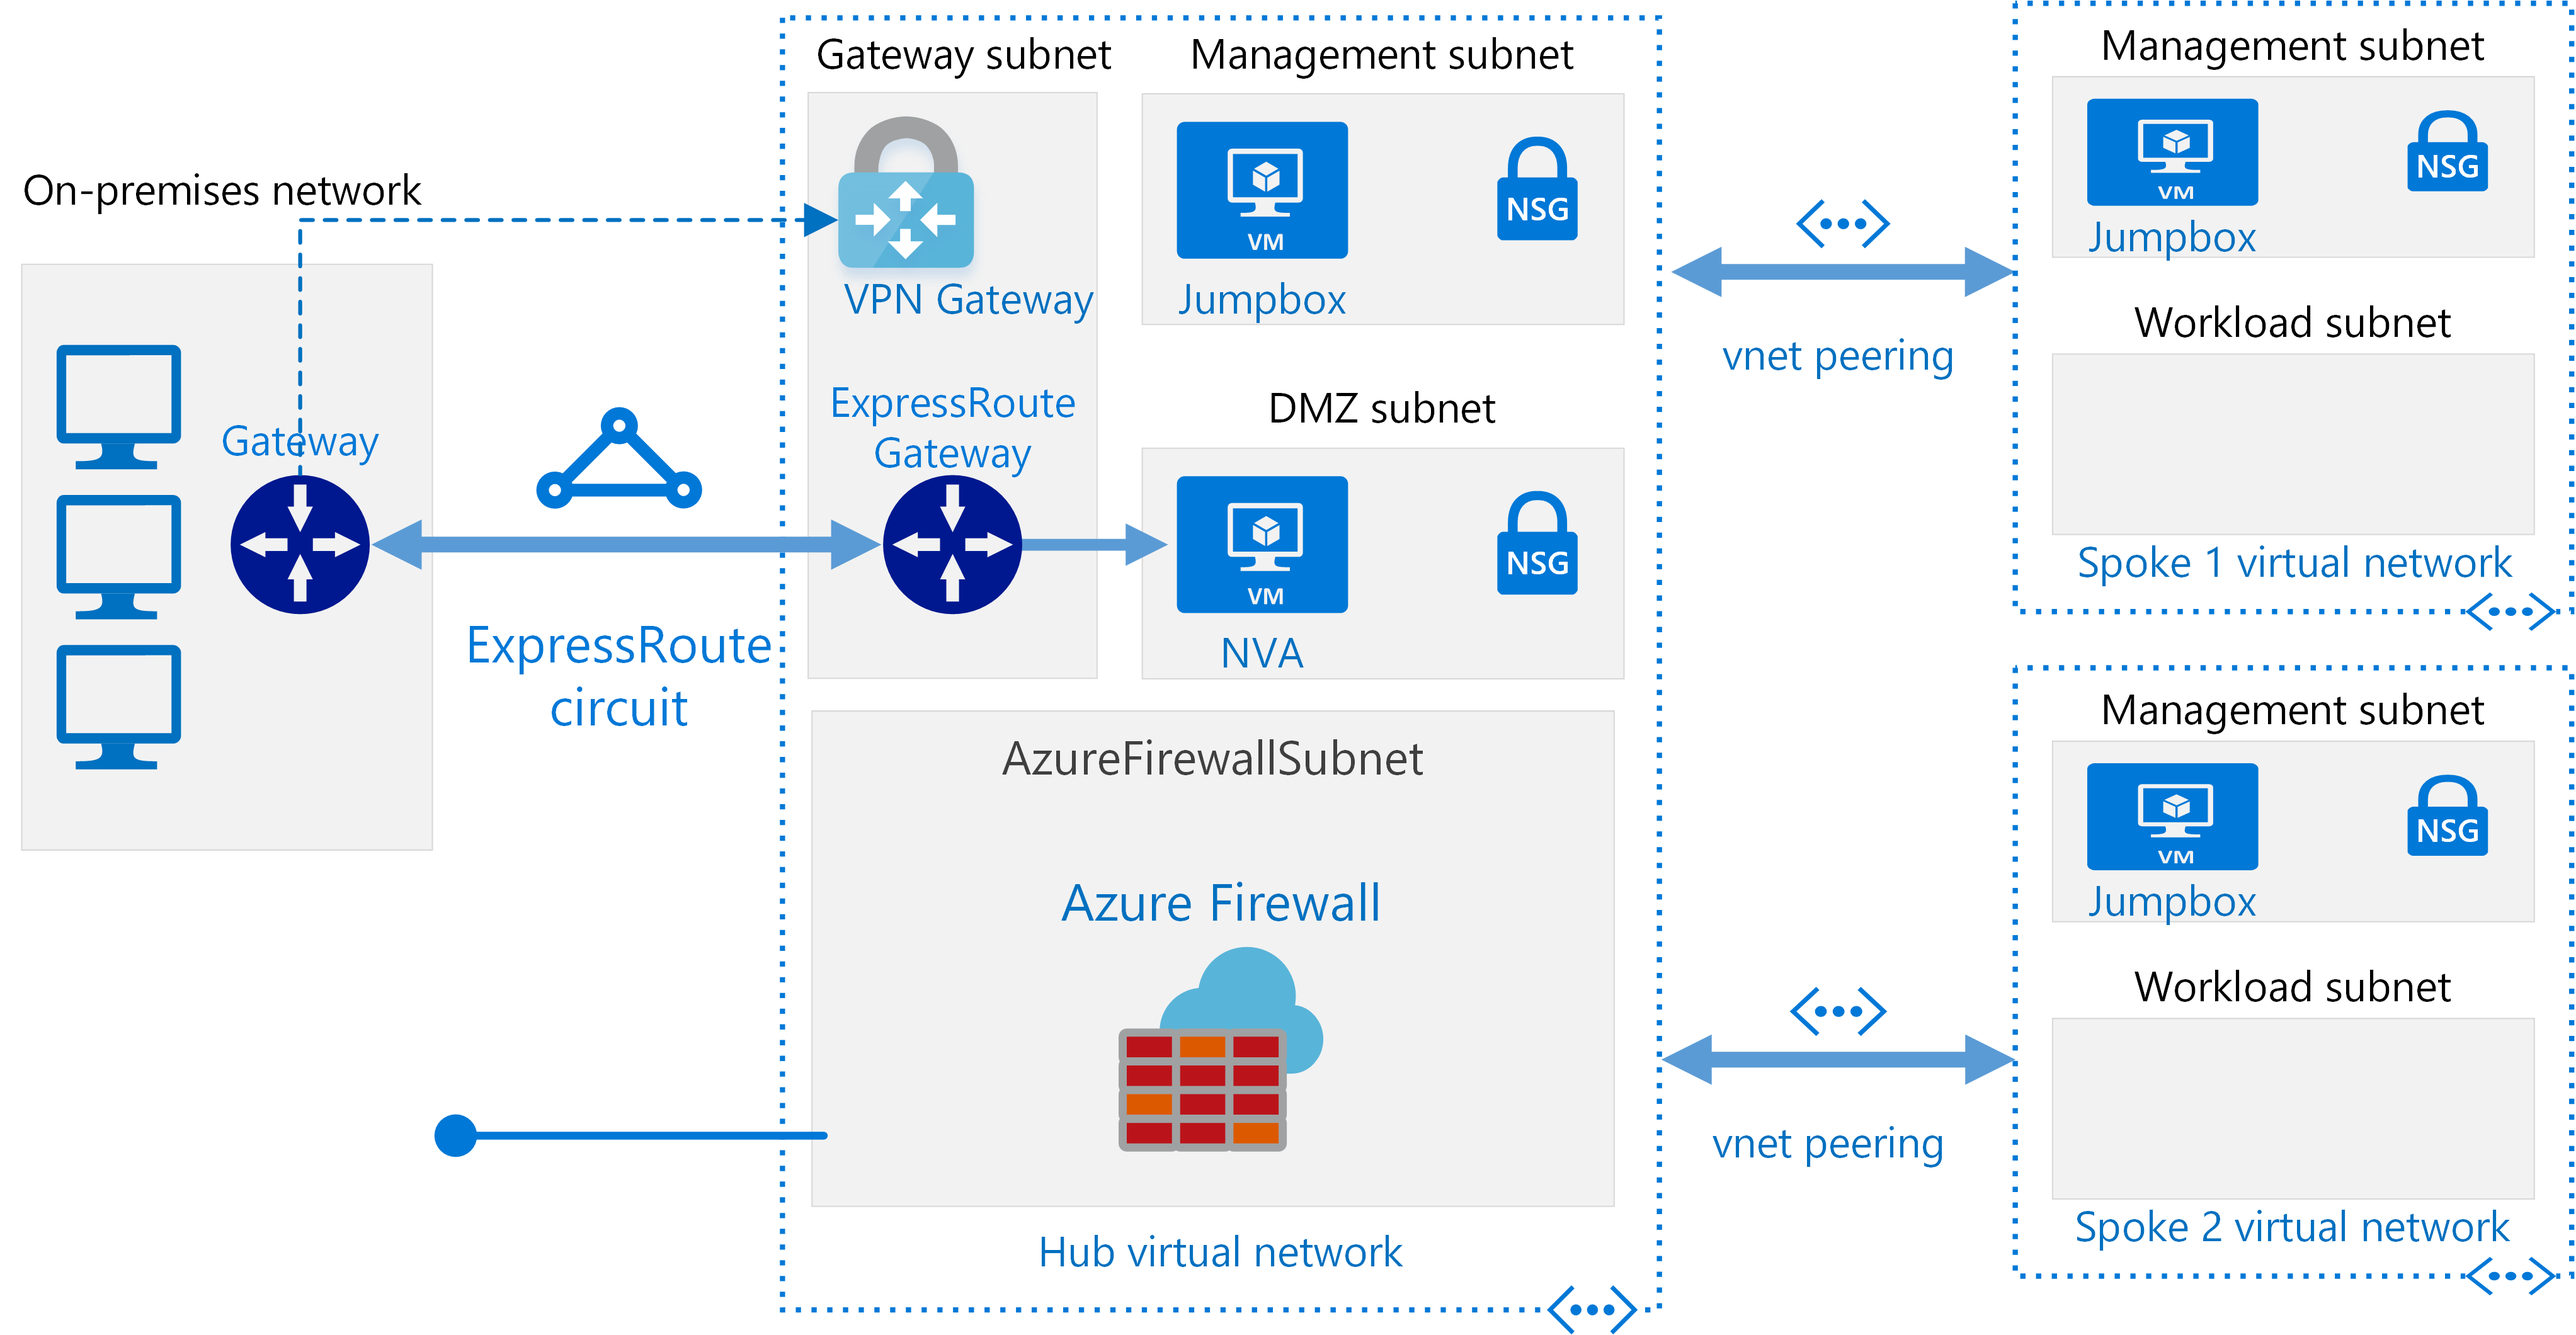
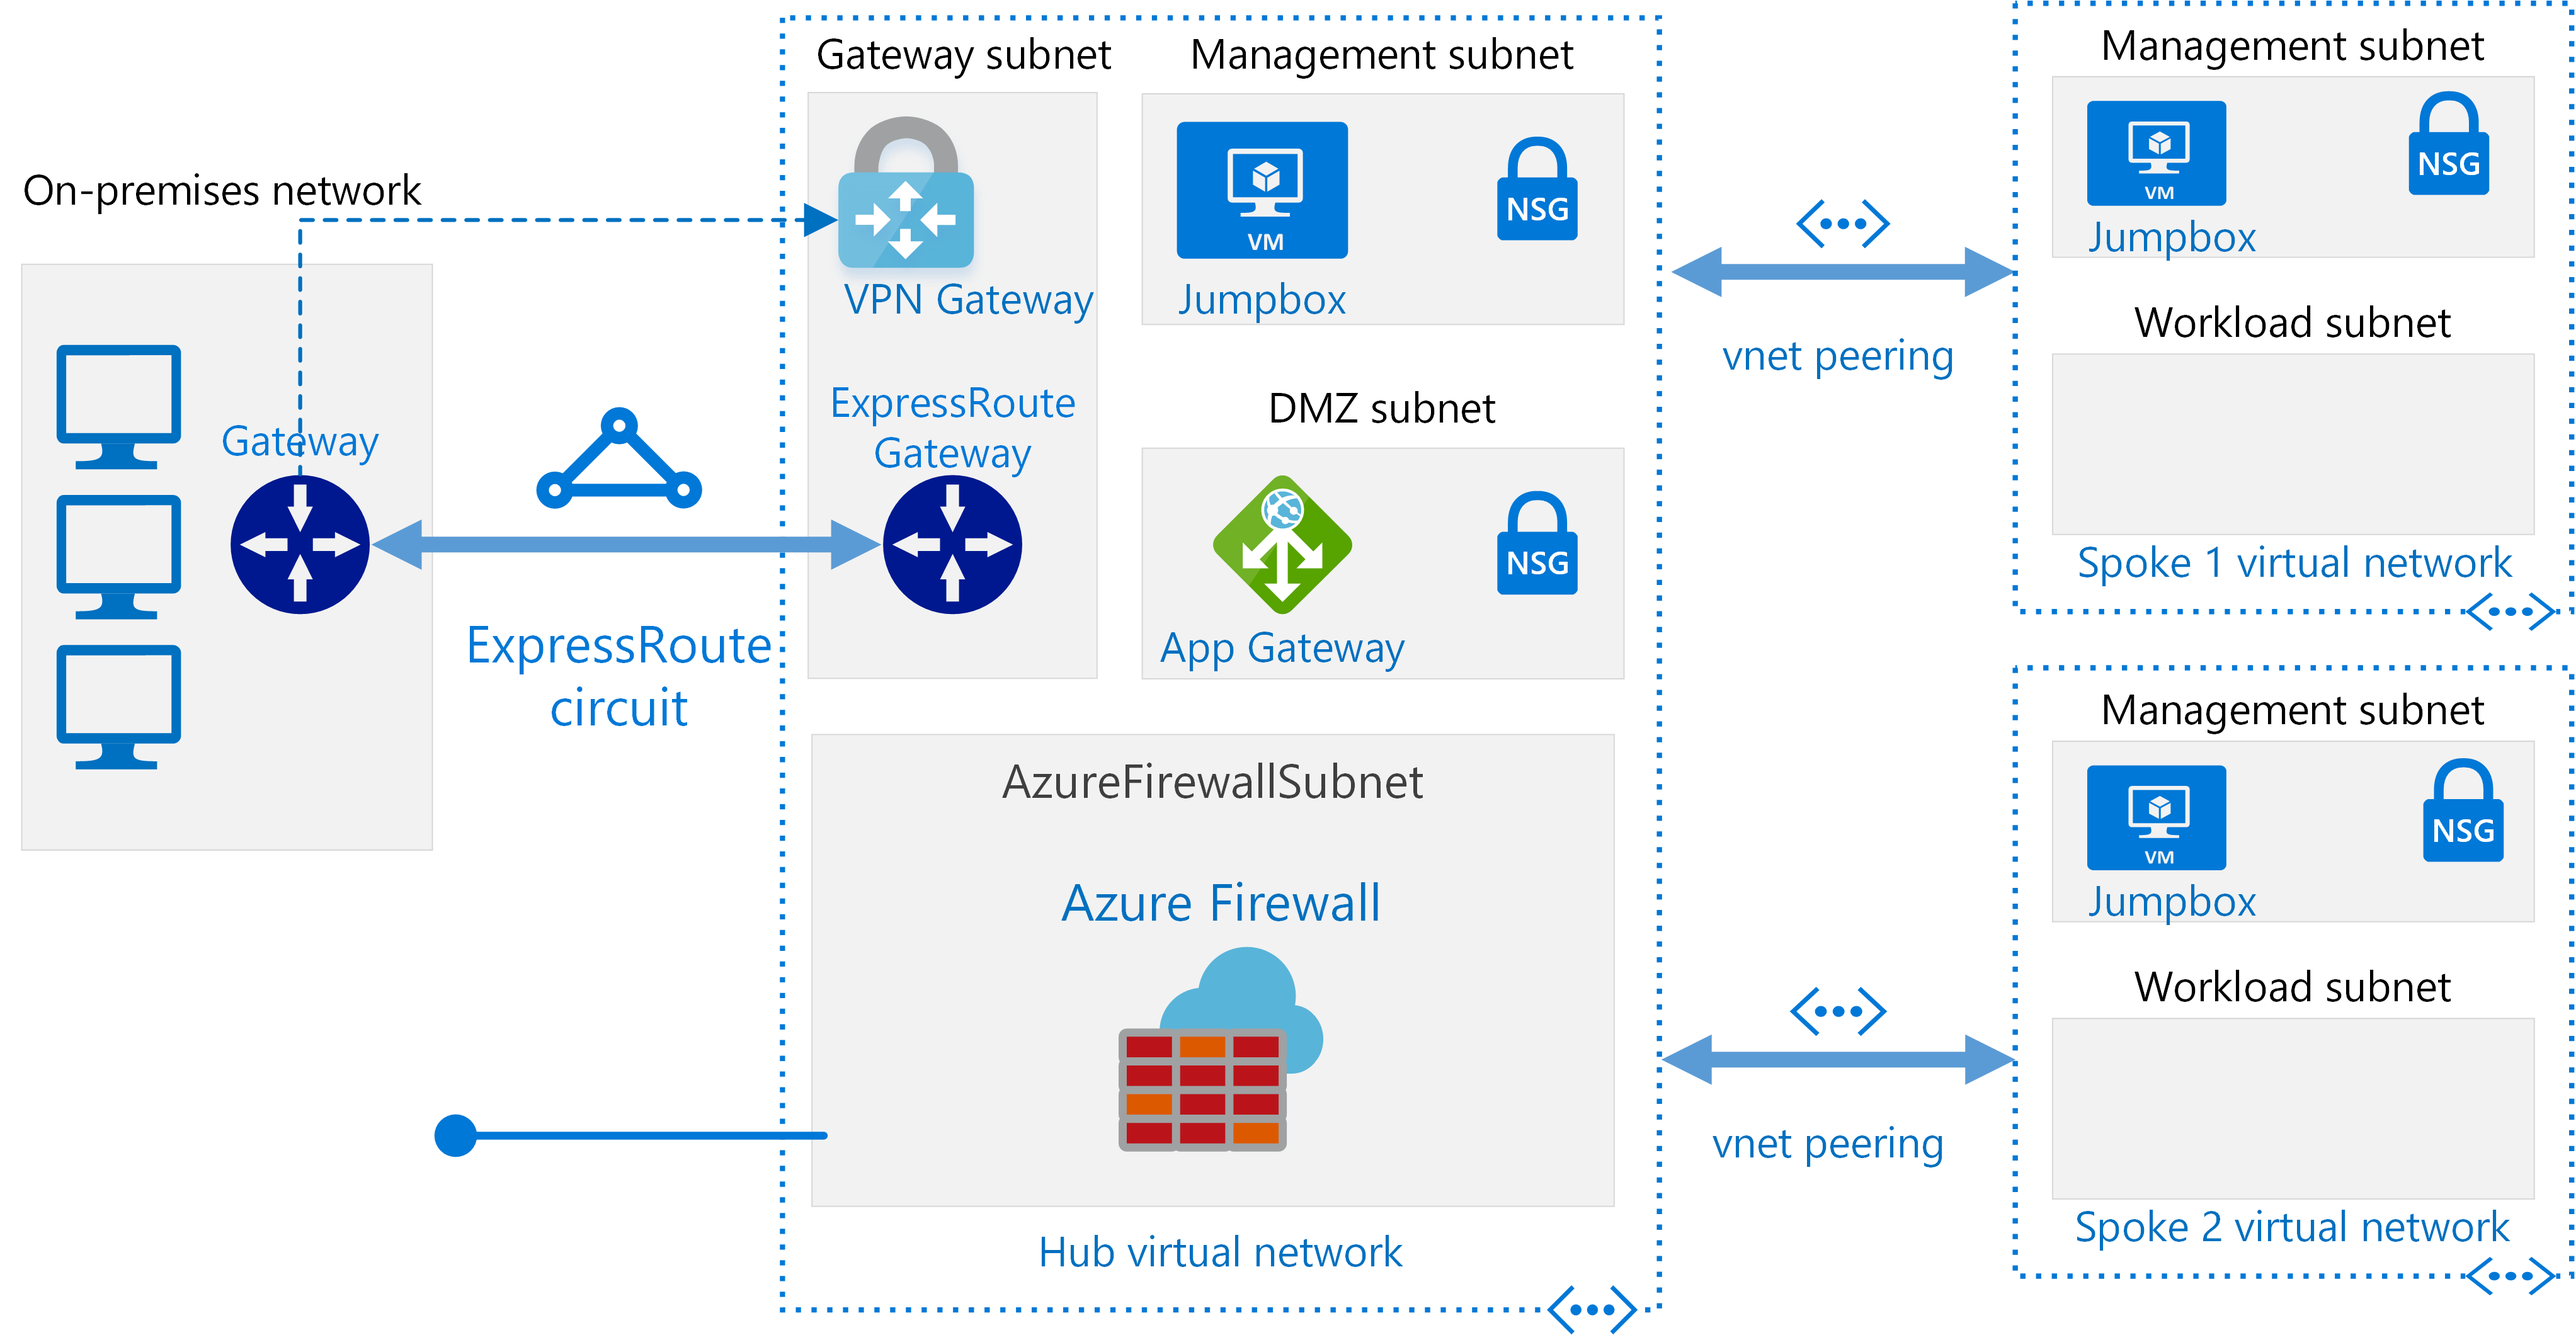
update module

diff --git a/README.md b/README.md
@@ -33,10 +33,12 @@ These types of resources are supported:
 * [Network Watcher Workflow Logs](https://www.terraform.io/docs/providers/azurerm/r/network_watcher_flow_log.html)
 * [Private DNS Zone](https://www.terraform.io/docs/providers/azurerm/r/private_dns_zone.html)
 
+## Module Usage
+
 ```hcl
 module "vnet-hub" {
   source = "github.com/tietoevry-infra-as-code/terraform-azurerm-caf-vnet-hub-firewall?ref=v1.0.0"
-  
+
   # By default, this module will create a resource group, proivde the name here
   # to use an existing resource group, specify the existing resource group name,
   # and set the argument to `create_resource_group = false`. Location will be same as existing RG.
@@ -68,7 +70,6 @@ module "vnet-hub" {
   # First two address ranges from VNet Address space reserved for Gateway And Firewall Subnets.
   # ex.: For 10.1.0.0/16 address space, usable address range start from 10.1.2.0/24 for all subnets.
   # subnet name will be set as per Azure naming convention by defaut. expected value here is: <App or project name>
-
   subnets = {
     mgnt_subnet = {
       subnet_name           = "management"
@@ -110,10 +111,10 @@ module "vnet-hub" {
 
   # (Optional) To enable the availability zones for firewall.
   # Availability Zones can only be configured during deployment
-  # You can't configure an existing firewall to include Availability Zones
+  # You can't modify an existing firewall to include Availability Zones
   firewall_zones = [1, 2, 3]
 
-  # (Required) specify the application rules for Azure Firewall
+  # (Optional) specify the application rules for Azure Firewall
   firewall_application_rules = [
     {
       name             = "microsoft"
@@ -127,7 +128,7 @@ module "vnet-hub" {
     },
   ]
 
-  # (Required) specify the Network rules for Azure Firewall
+  # (Optional) specify the Network rules for Azure Firewall
   firewall_network_rules = [
     {
       name                  = "ntp"
@@ -136,6 +137,21 @@ module "vnet-hub" {
       destination_ports     = ["123"]
       destination_addresses = ["*"]
       protocols             = ["UDP"]
+    },
+  ]
+
+  ## (Optional) specify the NAT rules for Azure Firewall
+  ## `var.public_ip_names` automatically pick the firewall public IP from module.
+  firewall_nat_rules = [
+    {
+      name                  = "testrule"
+      action                = "Dnat"
+      source_addresses      = ["10.0.0.0/8"]
+      destination_ports     = ["53", ]
+      destination_addresses = var.public_ip_names
+      translated_port       = 53
+      translated_address    = "8.8.8.8"
+      protocols             = ["TCP", "UDP", ]
     },
   ]
 
@@ -169,13 +185,13 @@ This is an optional feature and only applicable if you are using your own DNS se
 
 This module handles the creation and a list of address spaces for subnets. This module uses `for_each` to create subnets and corresponding service endpoints, service delegation, and network security groups. This module associates the subnets to network security groups as well with additional user-defined NSG rules.  
 
-This module creates 4 subnets by default: Gateway Subnet, AzureFirewallSubnet, and Management Subnet.
+This module creates 4 subnets by default: Gateway Subnet, AzureFirewallSubnet, ApplicationGateway Subnet and Management Subnet.
 
 Name | Description
 ---- | -----------
 Gateway Subnet| Contain VPN Gateway, Express route Gateway
 AzureFirewallSubnet|If added the Firewall module, it Deploys an Azure Firewall that will monitor all incoming and outgoing traffic
-ApplicationGateway|Contain an Application Gateway etc...
+ApplicationGateway|This subnet contain an Application Gateway and any other DMZ services
 Management|Management subnet for Bastion host, accessible from gateway
 
 Both Gateway Subnet and AzureFirewallSubnet allow traffic out and can have public IPs. ApplicationGateway and Management subnet route traffic through the firewall and does not support public IPs due to asymmetric routing.
@@ -353,9 +369,7 @@ Azure Firewall can be configured during deployment to span multiple Availability
 
 To specifies the availability zones in which the Azure Firewall should be created, set the argument `firewall_zones = [1, 2, 3]`.  This is by default is not enabled and set to `none`. There's no additional cost for a firewall deployed in an Availability Zone. However, there are additional costs for inbound and outbound data transfers associated with Availability Zones.
 
-```text
-Note: Availability Zones can only be configured during deployment. You can't modify an existing firewall to include Availability Zones
-```
+>Note: Availability Zones can only be configured during deployment. You can't modify an existing firewall to include Availability Zones
 
 >### Firewall Rules
 
@@ -392,6 +406,21 @@ module "vnet-hub" {
       destination_ports     = ["123"]
       destination_addresses = ["*"]
       protocols             = ["UDP"]
+    },
+  ]
+
+  ## (Optional) specify the NAT rules for Azure Firewall
+  ## `var.public_ip_names` automatically pick the firewall public IP from module.
+  firewall_nat_rules = [
+    {
+      name                  = "testrule"
+      action                = "Dnat"
+      source_addresses      = ["10.0.0.0/8"]
+      destination_ports     = ["53", ]
+      destination_addresses = var.public_ip_names
+      translated_port       = 53
+      translated_address    = "8.8.8.8"
+      protocols             = ["TCP", "UDP", ]
     },
   ]
 

diff --git a/examples/README.md b/examples/README.md
@@ -43,7 +43,6 @@ module "vnet-hub" {
   # First two address ranges from VNet Address space reserved for Gateway And Firewall Subnets.
   # ex.: For 10.1.0.0/16 address space, usable address range start from 10.1.2.0/24 for all subnets.
   # subnet name will be set as per Azure naming convention by defaut. expected value here is: <App or project name>
-
   subnets = {
     mgnt_subnet = {
       subnet_name           = "management"
@@ -85,10 +84,10 @@ module "vnet-hub" {
 
   # (Optional) To enable the availability zones for firewall.
   # Availability Zones can only be configured during deployment
-  # You can't configure an existing firewall to include Availability Zones
+  # You can't modify an existing firewall to include Availability Zones
   firewall_zones = [1, 2, 3]
 
-  # (Required) specify the application rules for Azure Firewall
+  # (Optional) specify the application rules for Azure Firewall
   firewall_application_rules = [
     {
       name             = "microsoft"
@@ -102,7 +101,7 @@ module "vnet-hub" {
     },
   ]
 
-  # (Required) specify the Network rules for Azure Firewall
+  # (Optional) specify the Network rules for Azure Firewall
   firewall_network_rules = [
     {
       name                  = "ntp"
@@ -111,6 +110,21 @@ module "vnet-hub" {
       destination_ports     = ["123"]
       destination_addresses = ["*"]
       protocols             = ["UDP"]
+    },
+  ]
+
+  ## (Optional) specify the NAT rules for Azure Firewall
+  ## `var.public_ip_names` automatically pick the firewall public IP from module.
+  firewall_nat_rules = [
+    {
+      name                  = "testrule"
+      action                = "Dnat"
+      source_addresses      = ["10.0.0.0/8"]
+      destination_ports     = ["53", ]
+      destination_addresses = var.public_ip_names
+      translated_port       = 53
+      translated_address    = "8.8.8.8"
+      protocols             = ["TCP", "UDP", ]
     },
   ]
 
